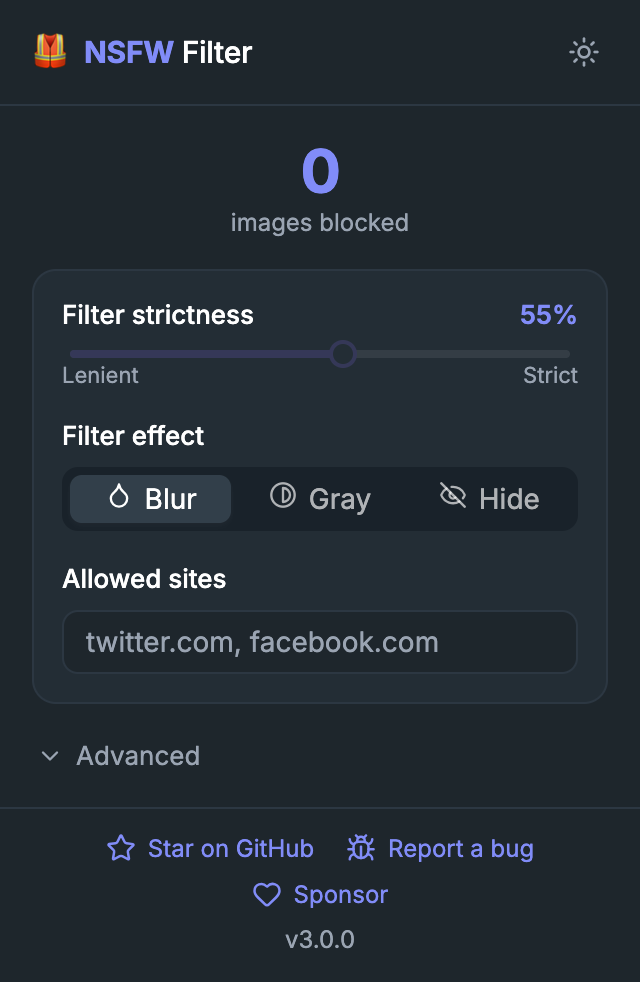
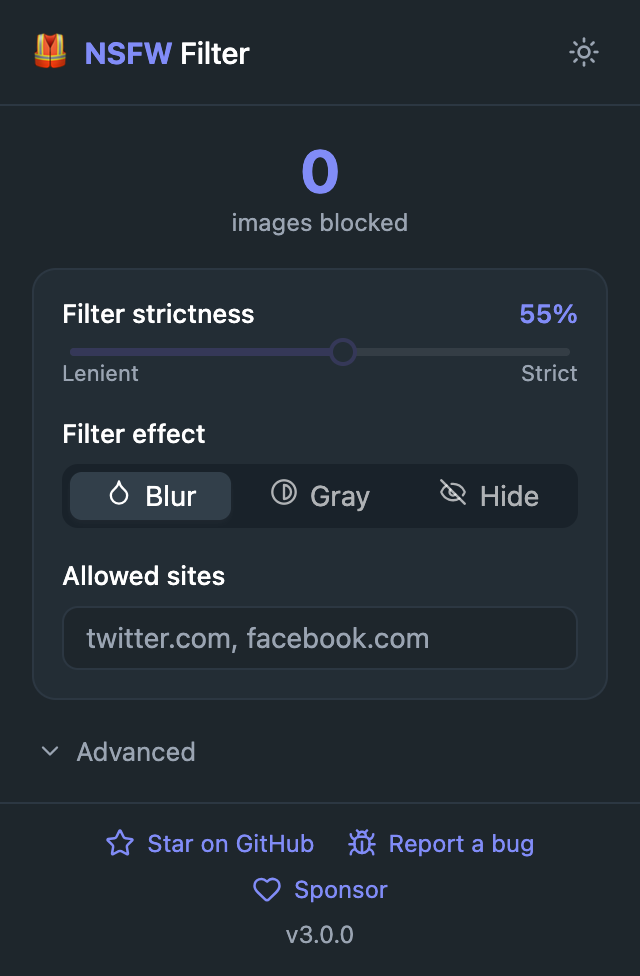
fix: suggested changes

diff --git a/test/e2e/popupLayout.test.js b/test/e2e/popupLayout.test.js
@@ -13,11 +13,12 @@ const extensionId = async () => {
   return new URL(target.url()).host
 }
 
-// Right edge of every element vs the column's right edge. A positive `over`
-// means that element is clipped by the popup window.
+// Right edge of every element vs the popup window's own right edge. Measuring
+// against the viewport (not the inner column) catches the case where the column
+// itself overflows the window, which is exactly the box-sizing bug we guard.
 const measureOverflow = page => page.evaluate(() => {
   const column = document.getElementById('popup').firstElementChild
-  const right = column.getBoundingClientRect().right
+  const right = document.documentElement.clientWidth
   return [...column.querySelectorAll('*')]
     .map(el => ({ el, r: el.getBoundingClientRect() }))
     .filter(({ r }) => r.width > 0 && r.right > right + 1)
@@ -59,6 +60,18 @@ describe('Popup layout', () => {
     // "Grayscale" is shortened to "Gray" so it fits its third of the block
     // control; the full word would ellipsis to "Gra...".
     expect(text).toContain('Gray')
+  })
+
+  test('Advanced panel controls render in full when expanded', async () => {
+    await open()
+    await page.evaluate(() => {
+      document.querySelector('button[aria-controls="advanced-panel"]').click()
+    })
+    await settle(300)
+    const text = await page.evaluate(() => document.getElementById('popup').textContent)
+    expect(text).toContain('Trained model')
+    expect(text).toContain('Show logs in browser console')
+    expect(await measureOverflow(page)).toEqual([])
   })
 
   test('stays within the column after toggling dark mode', async () => {

diff --git a/src/popup/components/Production/index.tsx b/src/popup/components/Production/index.tsx
@@ -90,18 +90,22 @@ export const Production: React.FC = () => {
             style={{ marginTop: 8 }}
             placeholder="twitter.com, facebook.com"
             defaultValue={websites.join(', ')}
-            onChange={event => dispatch(setWebsiteList(event.target.value.split(/\s*,\s*/)))}
+            onChange={event => dispatch(setWebsiteList(event.target.value.split(/\s*,\s*/).filter(Boolean)))}
           />
         </Field>
       </Card>
 
       <div>
-        <AdvancedToggle onClick={() => setAdvancedOpen(open => !open)}>
+        <AdvancedToggle
+          aria-expanded={advancedOpen}
+          aria-controls="advanced-panel"
+          onClick={() => setAdvancedOpen(open => !open)}
+        >
           {advancedOpen ? <ChevronUp size={14} /> : <ChevronDown size={14} />}
           Advanced
         </AdvancedToggle>
         {advancedOpen && (
-          <AdvancedPanel>
+          <AdvancedPanel id="advanced-panel">
             <AdvancedRow>
               <FieldLabel>Trained model</FieldLabel>
               <Select

diff --git a/src/popup/components/Header/index.tsx b/src/popup/components/Header/index.tsx
@@ -20,7 +20,7 @@ export const Header: React.FC = () => {
           <span> Filter</span>
         </Title>
       </Brand>
-      <ThemeToggle aria-label="Toggle theme" onClick={() => dispatch({ type: TOGGLE_THEME })}>
+      <ThemeToggle aria-label="Toggle theme" aria-pressed={darkTheme} onClick={() => dispatch({ type: TOGGLE_THEME })}>
         {darkTheme ? <Sun size={16} /> : <Moon size={16} />}
       </ThemeToggle>
     </Container>

diff --git a/src/popup/styles/Theme.tsx b/src/popup/styles/Theme.tsx
@@ -76,7 +76,7 @@ export const Theme: React.FC<{ children?: React.ReactNode }> = ({ children }) =>
           colorText: theme.text.primary,
           colorTextQuaternary: theme.text.secondary,
           borderRadius: 8,
-          fontFamily: "'Inter', sans-serif"
+          fontFamily: "-apple-system, BlinkMacSystemFont, 'Segoe UI', Roboto, Helvetica, Arial, sans-serif"
         },
         components: {
           Segmented: {

diff --git a/src/popup/popup.html b/src/popup/popup.html
@@ -2,9 +2,6 @@
 <html>
     <head>
         <meta charset="utf-8" />
-        <link rel="preconnect" href="https://fonts.googleapis.com" />
-        <link rel="preconnect" href="https://fonts.gstatic.com" crossorigin />
-        <link rel="stylesheet" href="https://fonts.googleapis.com/css2?family=Inter:wght@400;500;600;700&display=swap" />
     </head>
     <body>
         <div id="popup"></div>

diff --git a/src/popup/components/Header/styles.ts b/src/popup/components/Header/styles.ts
@@ -18,7 +18,7 @@ export const Brand = styled.div`
 
 export const Title = styled.div`
   color: ${props => props.theme.text.primary};
-  font-family: 'Inter', sans-serif;
+  font-family: -apple-system, BlinkMacSystemFont, 'Segoe UI', Roboto, Helvetica, Arial, sans-serif;
   font-size: 15px;
   font-weight: 500;
   letter-spacing: -0.01em;

diff --git a/src/popup/components/styles.ts b/src/popup/components/styles.ts
@@ -5,7 +5,7 @@ export const Container = styled.div`
   color: ${props => props.theme.text.primary};
   display: flex;
   flex-direction: column;
-  font-family: 'Inter', sans-serif;
+  font-family: -apple-system, BlinkMacSystemFont, 'Segoe UI', Roboto, Helvetica, Arial, sans-serif;
   font-size: 14px;
   font-weight: 400;
   height: 100%;
